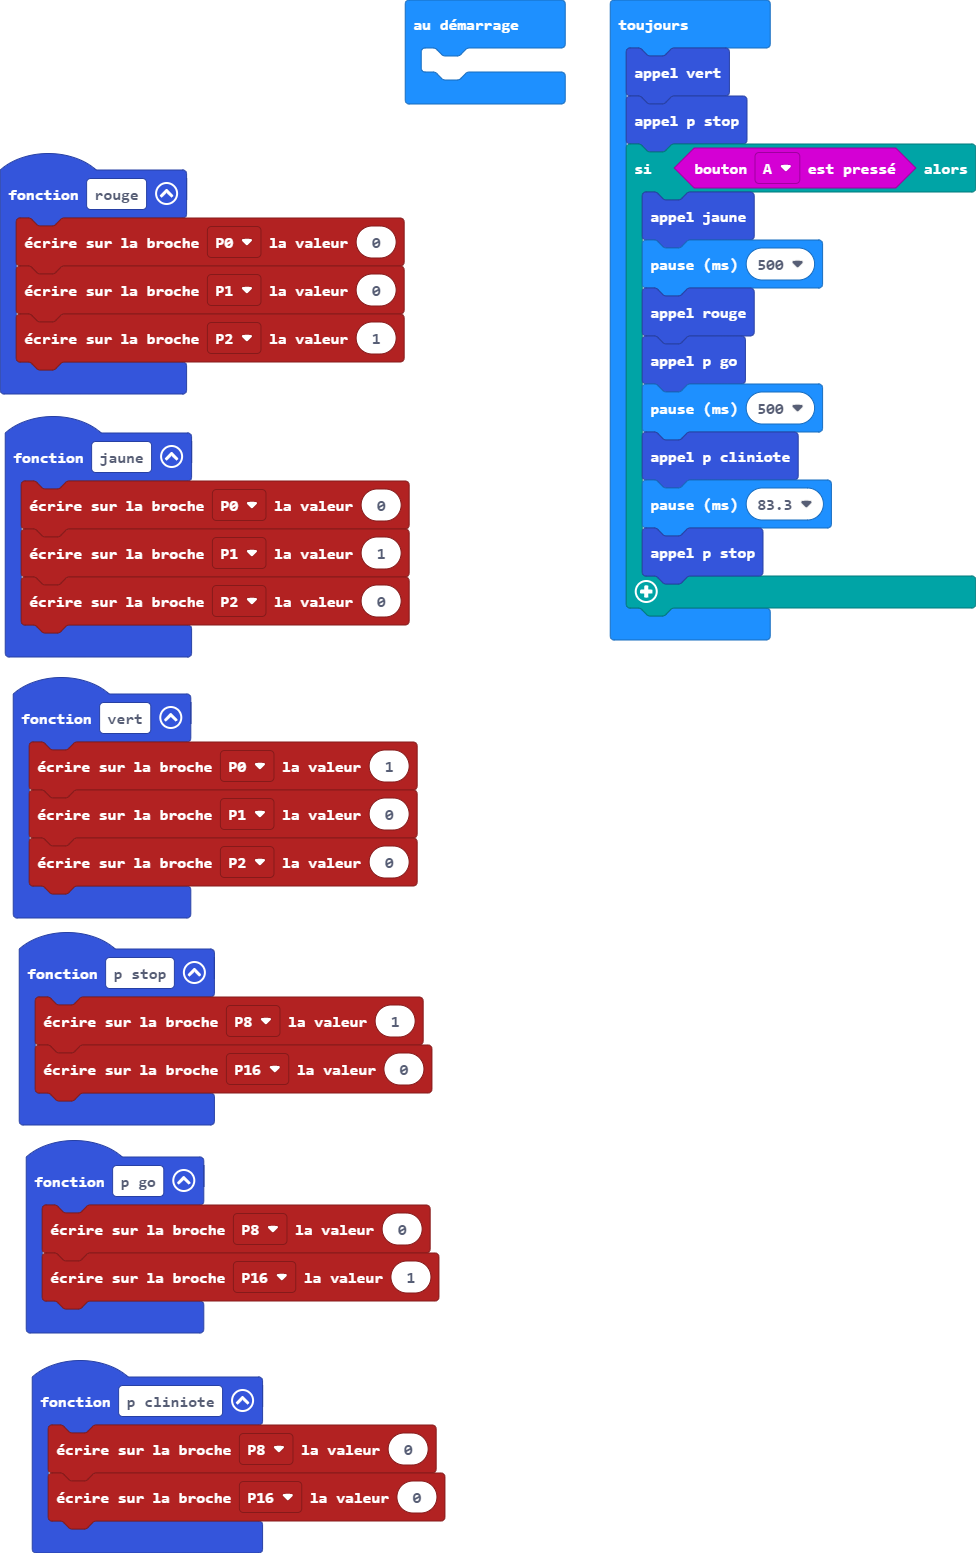
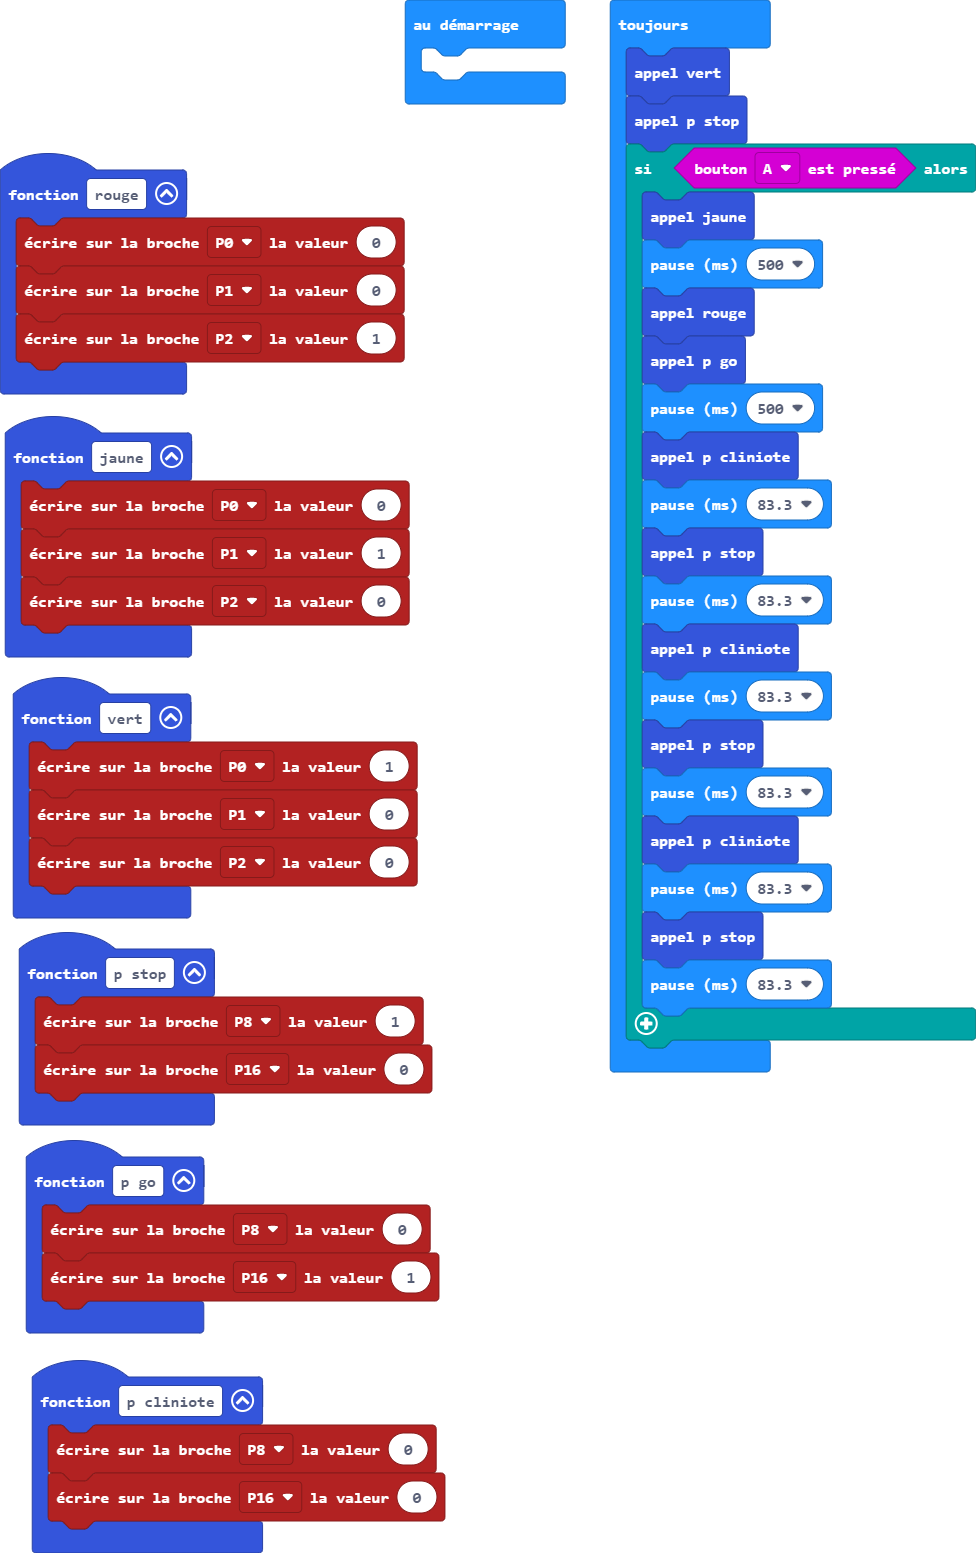
Mise à jour main.blocks, main.ts

Changed region(s): [[0.6148, 0.3709, 1.0, 0.7109]]

diff --git a/main.ts b/main.ts
@@ -37,5 +37,14 @@ basic.forever(function () {
         p_cliniote()
         basic.pause(83.3)
         p_stop()
+        basic.pause(83.3)
+        p_cliniote()
+        basic.pause(83.3)
+        p_stop()
+        basic.pause(83.3)
+        p_cliniote()
+        basic.pause(83.3)
+        p_stop()
+        basic.pause(83.3)
     }
 })
